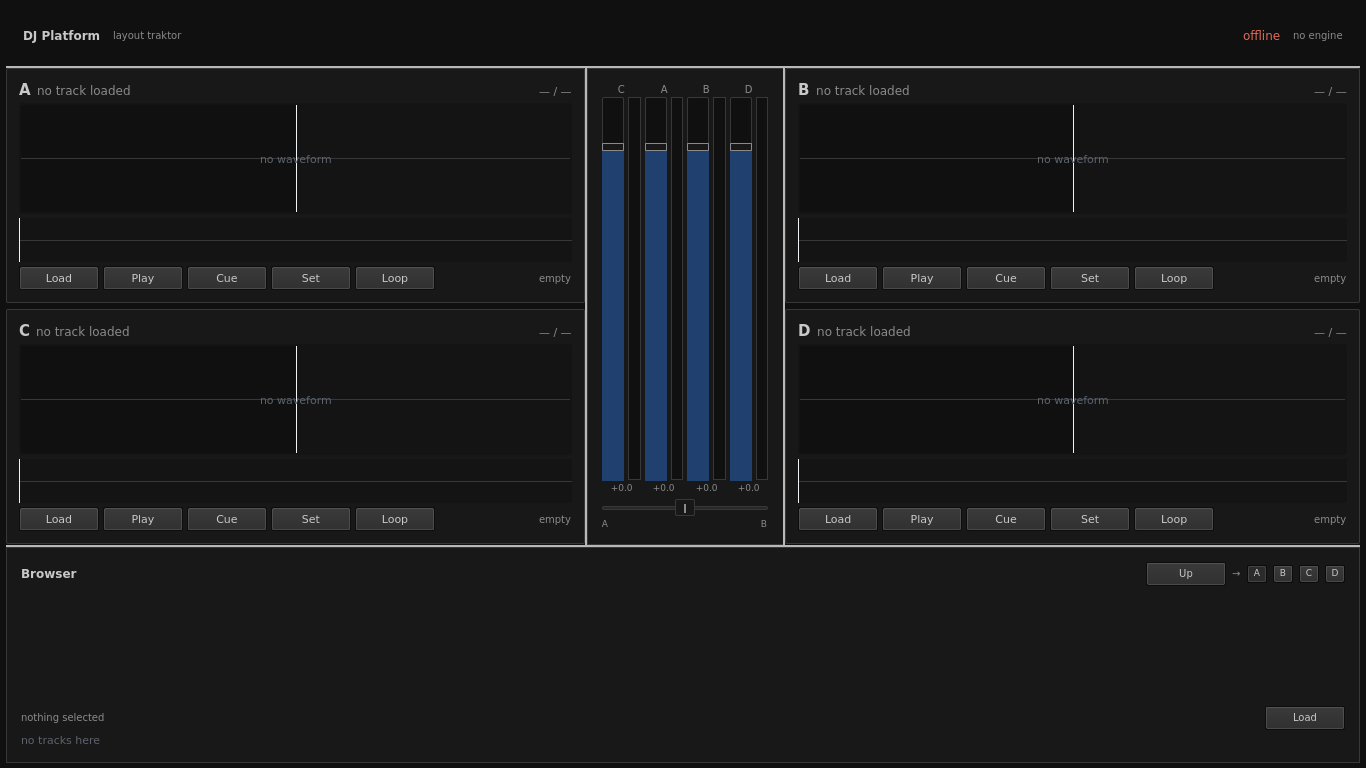
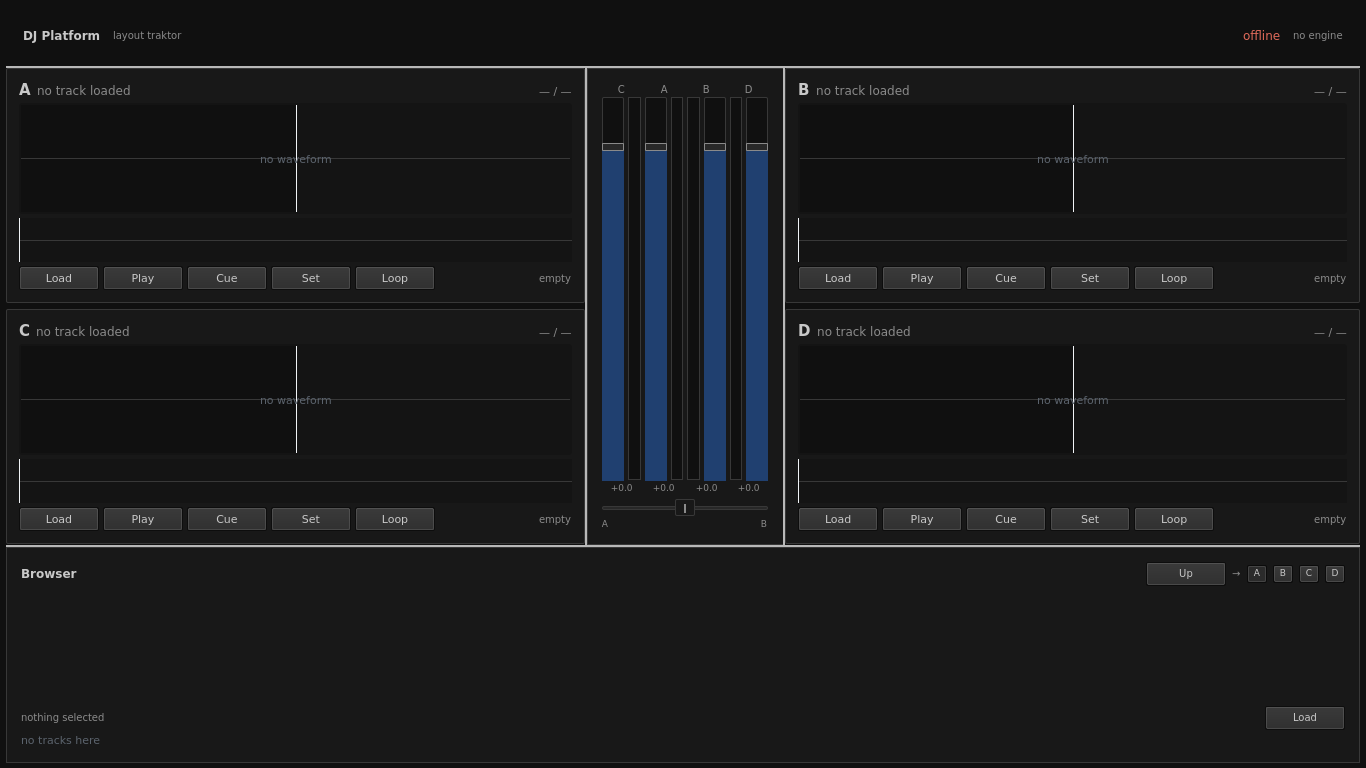
feat(UI): mirror the mixer strips around its centre
C and A keep their gain knob on the left of the meter, B and D on the right, so the two halves of the
mixer face each other instead of every knob crowding the middle.

Done with layoutDirection rather than by moving items: the row says left-to-right for the left-hand
decks and right-to-left for the right-hand ones, so the order is declared once and the halves cannot
drift apart.

Knob and meter are now their own components (GainKnob, LevelMeter), which also gives them names the
check can find. The layout check asserts the side from the scene coordinates and fails on a mismatch:

    deck A knob at 645, meter at 671, as placed
    deck B knob at 704, meter at 687, as placed
    deck C knob at 602, meter at 628, as placed
    deck D knob at 746, meter at 730, as placed

Changed region(s): [[0.4919, 0.1562, 0.5842, 0.625]]

diff --git a/apps/dj-ui/qml/mixer/MixerPanel.qml b/apps/dj-ui/qml/mixer/MixerPanel.qml
@@ -1,8 +1,8 @@
 // Mixer: one strip per deck and the crossfader below them (DJP-MIX-001).
 //
-// A strip is a gain knob beside a level meter, both as tall as the column: the meter shows what the
-// engine reports, the knob sets the deck's own trim and reads back the same number the snapshot
-// carries, so it cannot drift from the sound.
+// A strip is a gain knob beside a level meter, both as tall as the column. The knob sits on the inner
+// side: the left-hand decks (A and C) keep theirs on the left, the right-hand ones (B and D) on the
+// right, so the two halves of the mixer mirror each other instead of every knob crowding the middle.
 import QtQuick
 import QtQuick.Controls
 import QtQuick.Layouts
@@ -11,12 +11,8 @@ Pane {
     id: mixer
 
     readonly property var decks: Bridge.snapshot.decks !== undefined ? Bridge.snapshot.decks : []
-    // The order is a setting (LayoutState.channelOrder); C first by default, as the owner asked — the
-    // decks that are not the two outer ones still deserve a reachable strip.
+    // The order is a setting (LayoutState.channelOrder); C first by default, as the owner asked.
     readonly property var order: LayoutState.channelOrder.split("")
-    // The travel of a channel knob, in decibels. 0 dB is unity, the top is a little headroom.
-    readonly property int minimumDb: -40
-    readonly property int maximumDb: 6
 
     function deckOf(id) {
         for (let index = 0; index < mixer.decks.length; ++index) {
@@ -26,12 +22,8 @@ Pane {
         }
         return null;
     }
-
     function toDb(gain) {
-        return gain > 0.0 ? 20.0 * Math.log(gain) / Math.LN10 : mixer.minimumDb;
-    }
-    function toGain(db) {
-        return Math.pow(10.0, db / 20.0);
+        return gain > 0.0 ? 20.0 * Math.log(gain) / Math.LN10 : -40;
     }
 
     background: Rectangle {
@@ -63,6 +55,9 @@ Pane {
                     readonly property real gain: strip.deck !== null
                                                  && strip.deck.linear_gain !== undefined
                                                  ? strip.deck.linear_gain : 1.0
+                    // The decks that live to the left of the mixer keep their knob on the left.
+                    readonly property bool knobLeft: strip.modelData === "A"
+                                                     || strip.modelData === "C"
 
                     Layout.fillWidth: true
                     Layout.fillHeight: true
@@ -75,125 +70,37 @@ Pane {
                         Layout.alignment: Qt.AlignHCenter
                     }
 
-                    // Knob and meter side by side, both full height.
+                    // Knob and meter, mirrored: the row runs left to right for the left-hand decks
+                    // and right to left for the right-hand ones, so nothing but the direction differs.
                     RowLayout {
                         Layout.fillWidth: true
                         Layout.fillHeight: true
                         spacing: 4
+                        layoutDirection: strip.knobLeft ? Qt.LeftToRight : Qt.RightToLeft
 
-                        // The gain knob: vertical travel in decibels, dragging anywhere in the track.
-                        Item {
-                            id: knob
-                            objectName: "knob_" + strip.modelData
-                            // What the last gesture asked for, so a check can tell a knob that is
-                            // dead from a knob whose command the engine refused.
-                            property real lastY: -1
-                            property real lastGain: -1
-                            // While the mouse is down the handle follows the hand, not the round trip
-                            // through the engine: a control that lags by a snapshot feels dead.
-                            property bool dragging: false
-                            property real dragged: 0.0
+                        GainKnob {
                             Layout.preferredWidth: 22
                             Layout.fillHeight: true
-
-                            Rectangle {
-                                anchors.fill: parent
-                                radius: 2
-                                color: UiSettings.themeBackground
-                                border.color: UiSettings.themeBorder
-                                border.width: 1
-                            }
-                            Rectangle {
-                                anchors.left: parent.left
-                                anchors.right: parent.right
-                                anchors.bottom: parent.bottom
-                                height: parent.height * (knob.dragging ? knob.dragged
-                                                                       : strip.fraction)
-                                color: UiSettings.themeAccentDim
-                            }
-                            // Unity: where the knob lives when nothing has been touched.
-                            Rectangle {
-                                anchors.left: parent.left
-                                anchors.right: parent.right
-                                y: parent.height * (1.0 - strip.unityFraction)
-                                height: 1
-                                color: UiSettings.themeBorder
-                            }
-                            Rectangle {
-                                width: parent.width
-                                height: 8
-                                radius: 1
-                                y: parent.height * (1.0 - (knob.dragging ? knob.dragged
-                                                                         : strip.fraction)) - height / 2
-                                color: strip.deck !== null ? UiSettings.themeRaised
-                                                           : UiSettings.themePanel
-                                border.color: UiSettings.themeTextDim
-                                border.width: 1
-                            }
-                            MouseArea {
-                                anchors.fill: parent
-                                // The knob always takes the hand: it shows the drag at once, and the
-                                // command is sent when there is a deck to send it for. Disabling it
-                                // when the link was down made a live control look broken.
-                                enabled: true
-                                onPressed: function (mouse) {
-                                    knob.dragging = true;
-                                    knob.set(mouse.y);
-                                }
-                                onPositionChanged: function (mouse) {
-                                    if (knob.dragging) {
-                                        knob.set(mouse.y);
-                                    }
-                                }
-                                onReleased: knob.dragging = false
-                                onCanceled: knob.dragging = false
-                            }
-
-                            function set(y) {
-                                const share = 1.0 - Math.max(0.0, Math.min(1.0, y / height));
-                                const db = mixer.minimumDb + share * (mixer.maximumDb - mixer.minimumDb);
-                                knob.lastY = y;
-                                knob.lastGain = mixer.toGain(db);
-                                knob.dragged = share;
-                                if (strip.deck !== null) {
-                                    Bridge.setChannelGain(strip.modelData, knob.lastGain);
-                                }
-                            }
+                            deckId: strip.modelData
+                            gain: strip.gain
                         }
-
-                        // The meter: the engine's peak, from the strip's bottom up.
-                        Rectangle {
-                            objectName: "meter_" + strip.modelData
+                        LevelMeter {
                             Layout.fillWidth: true
                             Layout.fillHeight: true
-                            color: UiSettings.themeBackground
-                            border.color: UiSettings.themeBorder
-                            border.width: 1
-                            Rectangle {
-                                anchors.left: parent.left
-                                anchors.right: parent.right
-                                anchors.bottom: parent.bottom
-                                height: parent.height * Math.min(1.0, strip.peak)
-                                color: strip.peak > 0.95 ? UiSettings.themeDanger
-                                                         : UiSettings.themeAccent
-                            }
+                            deckId: strip.modelData
+                            peak: strip.peak
                         }
                     }
 
                     Label {
                         text: strip.gain > 0.0
-                              ? (mixer.toDb(strip.gain) >= 0 ? "+" : "") + mixer.toDb(strip.gain).toFixed(1)
+                              ? (mixer.toDb(strip.gain) >= 0 ? "+" : "")
+                                + mixer.toDb(strip.gain).toFixed(1)
                               : "-∞"
                         color: UiSettings.themeTextDim
                         font.pixelSize: 9
                         Layout.alignment: Qt.AlignHCenter
                     }
-
-                    readonly property real fraction: Math.max(0.0, Math.min(1.0,
-                        (mixer.toDb(strip.gain) - mixer.minimumDb)
-                        / (mixer.maximumDb - mixer.minimumDb)))
-                    readonly property real unityFraction: (0.0 - mixer.minimumDb)
-                                                         / (mixer.maximumDb - mixer.minimumDb)
                 }
             }
         }
@@ -204,4 +111,5 @@ Pane {
             Layout.preferredHeight: 30
         }
     }
+
 }

diff --git a/apps/dj-ui/qml/mixer/GainKnob.qml b/apps/dj-ui/qml/mixer/GainKnob.qml
@@ -1,0 +1,89 @@
+// A channel's gain knob (DJP-MIX-001).
+//
+// Vertical travel in decibels: -40 at the bottom, +6 at the top, unity at 0 dB. While the button is
+// down the handle follows the hand — a control that waits for a round trip through the engine feels
+// dead — and the snapshot takes over on release.
+import QtQuick
+import QtQuick.Controls
+
+Item {
+    id: knob
+
+    required property string deckId
+    // The deck's gain as the engine reports it, linear.
+    required property real gain
+
+    implicitWidth: 22
+    objectName: "knob_" + deckId
+
+    readonly property int minimumDb: -40
+    readonly property int maximumDb: 6
+    readonly property real db: gain > 0.0 ? 20.0 * Math.log(gain) / Math.LN10 : minimumDb
+    readonly property real fraction: Math.max(0.0, Math.min(1.0,
+                                       (db - minimumDb) / (maximumDb - minimumDb)))
+    readonly property real unityFraction: (0.0 - minimumDb) / (maximumDb - minimumDb)
+
+    // What the last gesture asked for, so a check can tell a dead knob from a refused command.
+    property real lastY: -1
+    property real lastGain: -1
+    property bool dragging: false
+    property real dragged: 0.0
+
+    function gainFor(decibels) {
+        return Math.pow(10.0, decibels / 20.0);
+    }
+    function set(y) {
+        const share = 1.0 - Math.max(0.0, Math.min(1.0, y / height));
+        const decibels = minimumDb + share * (maximumDb - minimumDb);
+        knob.lastY = y;
+        knob.lastGain = knob.gainFor(decibels);
+        knob.dragged = share;
+        Bridge.setChannelGain(knob.deckId, knob.lastGain);
+    }
+
+    Rectangle {
+        anchors.fill: parent
+        radius: 2
+        color: UiSettings.themeBackground
+        border.color: UiSettings.themeBorder
+        border.width: 1
+    }
+    Rectangle {
+        anchors.left: parent.left
+        anchors.right: parent.right
+        anchors.bottom: parent.bottom
+        height: parent.height * (knob.dragging ? knob.dragged : knob.fraction)
+        color: UiSettings.themeAccentDim
+    }
+    // Unity: where the knob lives when nothing has been touched.
+    Rectangle {
+        anchors.left: parent.left
+        anchors.right: parent.right
+        y: parent.height * (1.0 - knob.unityFraction)
+        height: 1
+        color: UiSettings.themeBorder
+    }
+    Rectangle {
+        width: parent.width
+        height: 8
+        radius: 1
+        y: parent.height * (1.0 - (knob.dragging ? knob.dragged : knob.fraction)) - height / 2
+        color: UiSettings.themeRaised
+        border.color: UiSettings.themeTextDim
+        border.width: 1
+    }
+    MouseArea {
+        anchors.fill: parent
+        onPressed: function (mouse) {
+            knob.dragging = true;
+            knob.set(mouse.y);
+        }
+        onPositionChanged: function (mouse) {
+            if (knob.dragging) {
+                knob.set(mouse.y);
+            }
+        }
+        onReleased: knob.dragging = false
+        onCanceled: knob.dragging = false
+    }
+}

diff --git a/apps/dj-ui/qml/mixer/LevelMeter.qml b/apps/dj-ui/qml/mixer/LevelMeter.qml
@@ -1,0 +1,22 @@
+// A channel's level meter (DJP-UI-002): the engine's peak, drawn from the bottom up.
+import QtQuick
+
+Rectangle {
+    id: meter
+
+    required property string deckId
+    required property real peak
+
+    objectName: "meter_" + deckId
+    color: UiSettings.themeBackground
+    border.color: UiSettings.themeBorder
+    border.width: 1
+
+    Rectangle {
+        anchors.left: parent.left
+        anchors.right: parent.right
+        anchors.bottom: parent.bottom
+        height: parent.height * Math.min(1.0, meter.peak)
+        color: meter.peak > 0.95 ? UiSettings.themeDanger : UiSettings.themeAccent
+    }
+}

diff --git a/apps/dj-ui/src/main.cpp b/apps/dj-ui/src/main.cpp
@@ -1331,6 +1331,27 @@ int main(int argc, char *argv[])
         }
         std::fprintf(stdout, "dj-ui: deck frames at rest: %s\n",
                      qPrintable(framed.join(QStringLiteral(", "))));
+        // Knobs mirror: the left-hand decks keep theirs on the left of the meter, the right-hand ones
+        // on the right.
+        for (const char *id : {"A", "B", "C", "D"}) {
+            auto *stripKnob = findItem(content, QStringLiteral("knob_%1").arg(QString::fromLatin1(id)));
+            auto *stripMeter = findItem(content, QStringLiteral("meter_%1").arg(QString::fromLatin1(id)));
+            if (stripKnob == nullptr || stripMeter == nullptr) {
+                std::fprintf(stderr, "dj-ui: deck %s has no knob or meter\n", id);
+                return 1;
+            }
+            const double knobX = stripKnob->mapToScene(QPointF(0, 0)).x();
+            const double meterX = stripMeter->mapToScene(QPointF(0, 0)).x();
+            const bool left = QString::fromLatin1(id) == QStringLiteral("A")
+                || QString::fromLatin1(id) == QStringLiteral("C");
+            std::fprintf(stdout, "dj-ui: deck %s knob at %.0f, meter at %.0f, %s\n", id, knobX, meterX,
+                         (knobX < meterX) == left ? "as placed" : "WRONG SIDE");
+            if ((knobX < meterX) != left) {
+                std::fprintf(stderr, "dj-ui: deck %s has its knob on the wrong side\n", id);
+                return 1;
+            }
+        }
+
         // A knob the mouse cannot reach is not a knob. Send a real press at three quarters of its
         // height and read back what it decided to send.
         if (knob != nullptr) {

diff --git a/docs/qa/evidence/A07/layout.md b/docs/qa/evidence/A07/layout.md
@@ -181,3 +181,24 @@ dj-ui: knob A press at 193 px -> y 95,8, gain 0,531
 dj-ui: snapshot with 4 decks: A, B, C, D
 dj-ui: gain 0.25 landed on deck C, deck B still at 1,00
 ```
+
+## Зеркальные полосы микшера
+
+Владелец попросил симметрию: у каналов C и A крутилка слева от индикатора, у B и D — справа.
+
+Сделано направлением раскладки, а не перестановкой элементов: ряд «крутилка + индикатор» идёт слева
+направо для левых дек и справа налево для правых (`layoutDirection`). Так порядок объявлен один раз,
+и разъехаться половинам нечем.
+
+Замер по фактическим координатам в сцене:
+
+```
+dj-ui: deck A knob at 645, meter at 671, as placed
+dj-ui: deck B knob at 704, meter at 687, as placed
+dj-ui: deck C knob at 602, meter at 628, as placed
+dj-ui: deck D knob at 746, meter at 730, as placed
+```
+
+Проверка стоит в `--layout-check`: для A и C крутилка обязана быть левее индикатора, для B и D —
+правее, иначе провал. Крутилка и индикатор вынесены в отдельные файлы (`GainKnob.qml`,
+`LevelMeter.qml`), поэтому их геометрию можно найти по имени.
